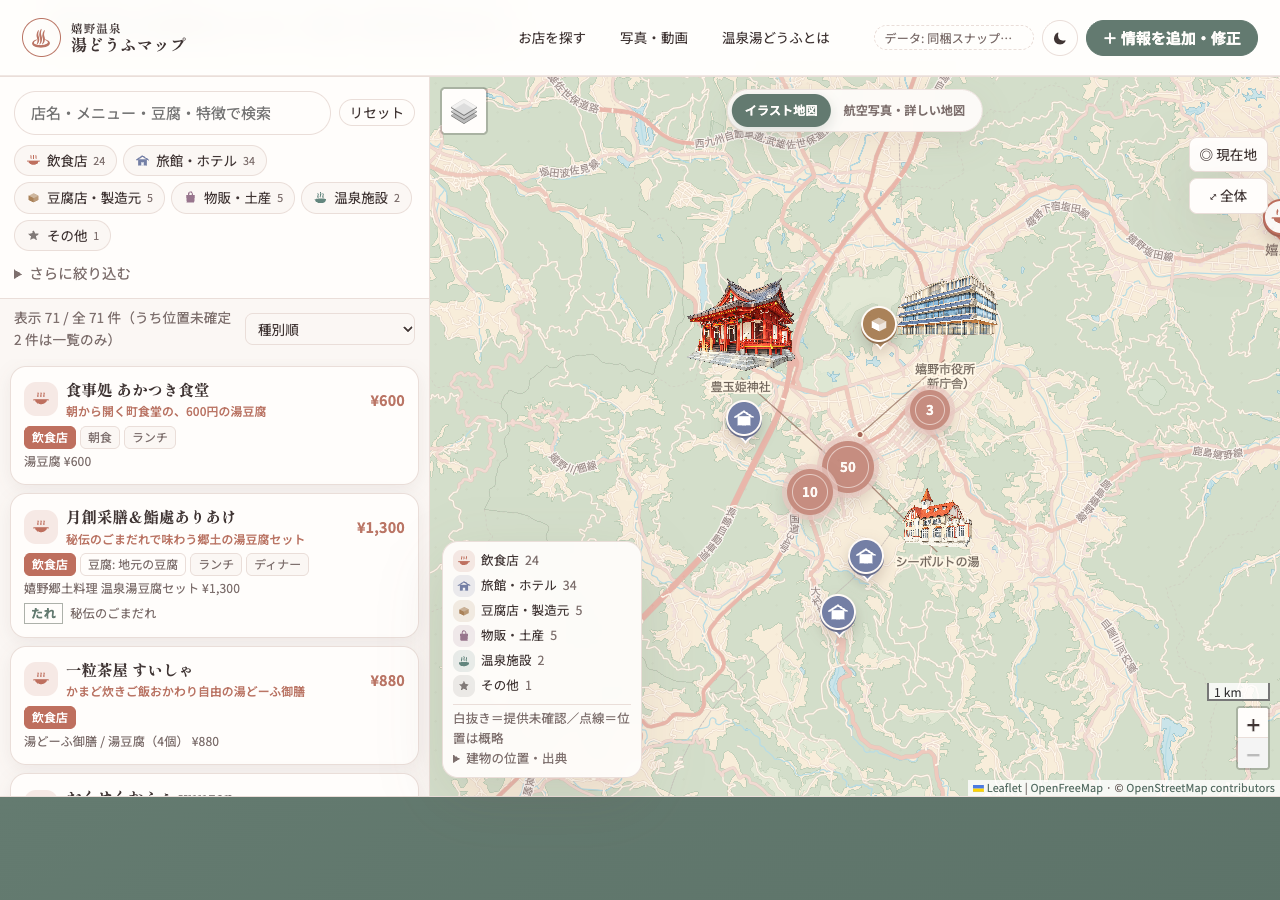
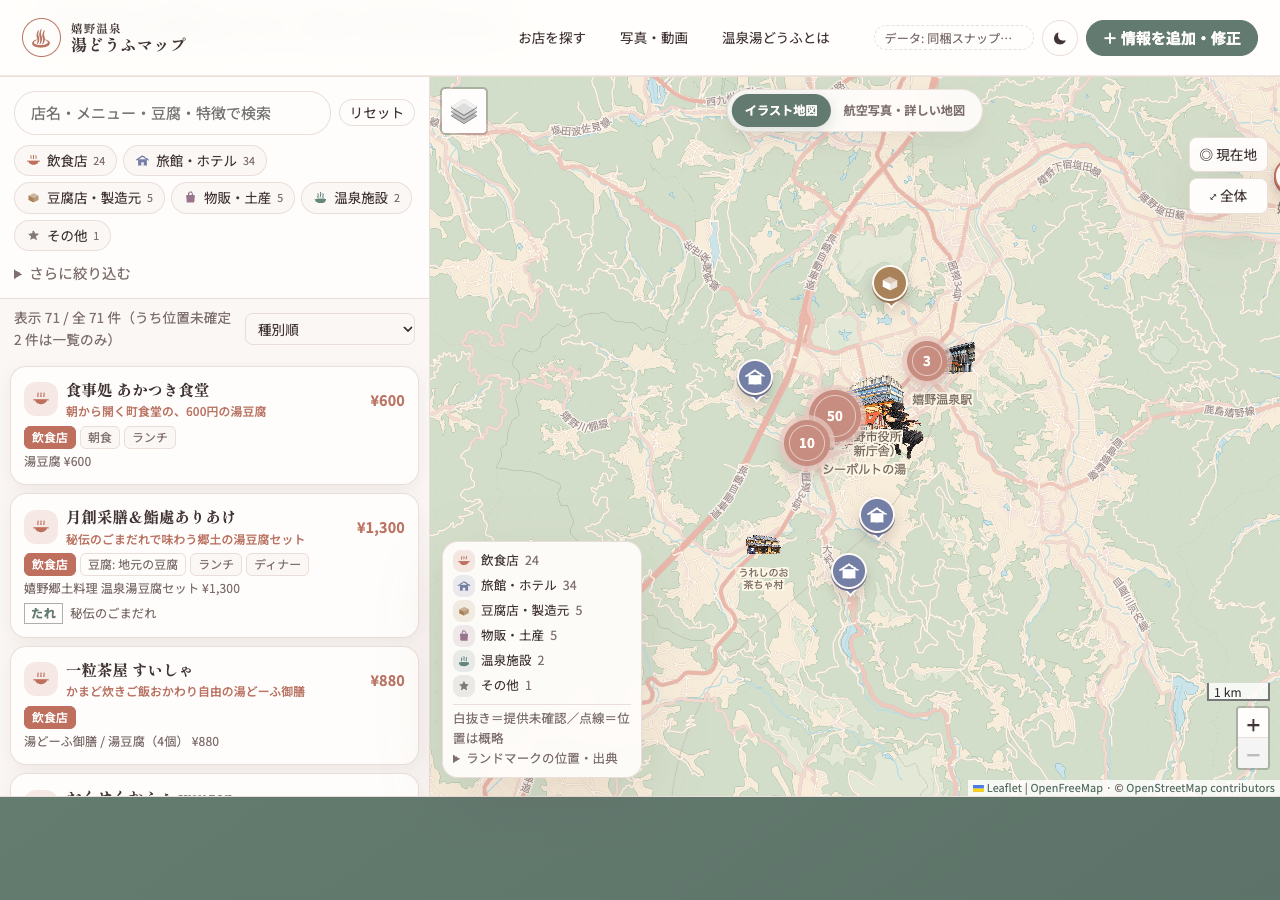
地図の実在ランドマークを追加し白なまずを描く

Changed region(s): [[0.3125, 0.0622, 1.0, 0.9022], [0.9688, 0.6844, 1.0, 0.8089], [0.625, 0.0622, 0.75, 0.0933]]

diff --git a/js/ui/map-art.js b/js/ui/map-art.js
@@ -1,57 +1,16 @@
-/* 実在建築の外観を参考にした目印。位置は点、離した絵は引き出し線で結ぶ。 */
+/* 実在建築の外観を参考にした目印。すべてのズームで実座標に固定する。 */
 (function () {
   'use strict';
   const sessions = new WeakMap();
   const collection = features => ({ type: 'FeatureCollection', features });
   const point = (coordinates, properties) => ({ type: 'Feature', geometry: { type: 'Point', coordinates }, properties });
-  function afterMarkers(gl) {
-    const s = sessions.get(gl);
-    if (!s || s.removed) return;
-    clearTimeout(s.timer);
-    s.timer = setTimeout(() => refresh(gl), 400);
-  }
 
   function refresh(gl) {
     const s = sessions.get(gl);
     if (!s || s.removed || !gl.getSource('building-art')) return;
     const features = s.fixed.concat(s.places.filter(p => p.name.includes('シーボルト') && Number.isFinite(p.lat) && Number.isFinite(p.lng)).map(p =>
-      point([p.lng, p.lat], { name: 'シーボルトの湯', art: 'siebold', dx: 85, dy: 85 })));
-    // 広域では絵同士を離す。詳細表示では実際の場所へ近づける。
-    const spread = Math.max(0.2, Math.min(1, (16 - gl.getZoom()) / 3));
-    const lines = [];
-    const canvas = gl.getCanvas().getBoundingClientRect();
-    const mapRect = document.getElementById('map').getBoundingClientRect();
-    const viewport = { left: mapRect.left - canvas.left, right: mapRect.right - canvas.left, top: mapRect.top - canvas.top + 55, bottom: mapRect.bottom - canvas.top - 28 };
-    const obstacles = [...document.querySelectorAll('#map .leaflet-marker-icon, .map-legend, .map-tools')].map(el => {
-      const r = el.getBoundingClientRect();
-      return { left: r.left - canvas.left - 5, right: r.right - canvas.left + 5, top: r.top - canvas.top - 5, bottom: r.bottom - canvas.top + 5 };
-    });
-    const overlap = (a, b) => Math.max(0, Math.min(a.right, b.right) - Math.max(a.left, b.left)) * Math.max(0, Math.min(a.bottom, b.bottom) - Math.max(a.top, b.top));
-    const pictures = features.map(f => {
-      const xy = gl.project(f.geometry.coordinates);
-      const p = f.properties;
-      let offset = [p.dx * spread, p.dy * spread];
-      // 店舗ピンを避ける。建物を座標の上へ重ねず、実際の位置は引き出し線で示す。
-      if (gl.getZoom() >= 14 && xy.x >= viewport.left && xy.x <= viewport.right && xy.y >= viewport.top && xy.y <= viewport.bottom) {
-        const desired = offset;
-        const side = p.dx < 0 ? -1 : 1;
-        const candidates = [desired, [side * 65, -35], [side * 100, -35], [side * 65, 60], [side * 100, 80], [side * 40, 100]];
-        const box = ([dx, dy]) => ({ left: xy.x + dx - 48, right: xy.x + dx + 48, top: xy.y + dy - 76, bottom: xy.y + dy + 20 });
-        const score = d => {
-          const b = box(d);
-          return obstacles.reduce((sum, o) => sum + overlap(b, o) * 10, 0) + (9216 - overlap(b, viewport)) * 30 + ((d[0] - desired[0]) ** 2 + (d[1] - desired[1]) ** 2) * 0.5;
-        };
-        offset = candidates.reduce((best, c) => score(c) < score(best) ? c : best, desired);
-        obstacles.push(box(offset));
-      }
-      const end = gl.unproject([xy.x + offset[0], xy.y + offset[1]]);
-      const coordinates = [end.lng, end.lat];
-      lines.push({ type: 'Feature', geometry: { type: 'LineString', coordinates: [f.geometry.coordinates, coordinates] }, properties: {} });
-      return point(coordinates, p);
-    });
-    gl.getSource('building-points').setData(collection(features));
-    gl.getSource('building-leaders').setData(collection(lines));
-    gl.getSource('building-art').setData(collection(pictures));
+      point([p.lng, p.lat], { name: 'シーボルトの湯', art: 'siebold' })));
+    gl.getSource('building-art').setData(collection(features));
   }
 
   function install(gl) {
@@ -71,31 +30,31 @@
       }
       if (gl.getLayer('landmark-labels')) {
         if (!s.filter) s.filter = gl.getFilter('landmark-labels');
-        gl.setFilter('landmark-labels', ['all', s.filter, ['!=', ['get', 'name'], '豊玉姫神社']]);
+        gl.setFilter('landmark-labels', ['all', s.filter, ['!', ['in', ['get', 'name'], ['literal', [
+          '豊玉姫神社', '元祖忍者村 肥前夢街道', '嬉野温泉駅', '湯っつら広場', 'うれしのお茶ちゃ村',
+        ]]]]]);
       }
       if (!gl.getSource('building-art')) {
-        ['building-art', 'building-points', 'building-leaders'].forEach(id => gl.addSource(id, { type: 'geojson', data: collection([]) }));
-        gl.addLayer({ id: 'building-leaders', type: 'line', source: 'building-leaders', paint: { 'line-color': '#9c7968', 'line-width': 1.2, 'line-opacity': 0.85 } });
-        gl.addLayer({ id: 'building-points', type: 'circle', source: 'building-points', paint: { 'circle-radius': 3, 'circle-color': '#a66657', 'circle-stroke-width': 1.5, 'circle-stroke-color': '#fff7e7' } });
+        gl.addSource('building-art', { type: 'geojson', data: collection([]) });
         gl.addLayer({ id: 'building-art', type: 'symbol', source: 'building-art', layout: {
-          'icon-image': ['concat', 'building-', ['get', 'art']], 'icon-size': ['interpolate', ['linear'], ['zoom'], 13, 0.85, 14, 0.55], 'icon-optional': true,
-          'icon-anchor': 'bottom', 'icon-allow-overlap': true,
-          'text-field': ['get', 'name'], 'text-font': ['Noto Sans Regular'], 'text-size': 12,
-          'text-anchor': 'top', 'text-offset': [0, 0.15], 'text-max-width': 8,
-          'text-allow-overlap': true, 'text-ignore-placement': true,
+          'icon-image': ['concat', 'building-', ['get', 'art']], 'icon-size': ['interpolate', ['linear'], ['zoom'], 12, 0.28, 15, 0.52, 18, 0.68], 'icon-optional': true,
+          'icon-anchor': 'center', 'icon-allow-overlap': true,
+          'text-field': ['get', 'name'], 'text-font': ['Noto Sans Regular'], 'text-size': ['interpolate', ['linear'], ['zoom'], 12, 10, 15, 12, 18, 13],
+          'text-anchor': 'top', 'text-offset': ['interpolate', ['linear'], ['zoom'], 12, ['literal', [0, 2.2]], 15, ['literal', [0, 3]], 18, ['literal', [0, 3.8]]], 'text-max-width': 8,
+          // 広域では地名を間引き、街歩きの縮尺では目印名を必ず読めるようにする。
+          'text-allow-overlap': ['step', ['zoom'], false, 15, true],
+          'text-ignore-placement': ['step', ['zoom'], false, 15, true], 'text-optional': true,
         }, paint: { 'text-color': '#584c43', 'text-halo-color': '#fff7e7', 'text-halo-width': 2.5 } });
       }
       refresh(gl);
     };
-    gl.on('load', () => { s.loaded = true; setup(); afterMarkers(gl); });
-    gl.on('zoom', () => refresh(gl));
-    gl.on('moveend', () => afterMarkers(gl));
-    gl.on('remove', () => { s.removed = true; clearTimeout(s.timer); });
-    fetch('assets/map-landmarks.json?v=2026-10-23').then(r => {
+    gl.on('load', () => { s.loaded = true; setup(); });
+    gl.on('remove', () => { s.removed = true; });
+    fetch('assets/map-landmarks.json?v=2026-10-23-3').then(r => {
       if (!r.ok) throw new Error('landmarks');
       return r.json();
     }).then(data => { s.fixed = data.features; refresh(gl); }).catch(() => { /* 店舗由来の目印は引き続き表示 */ });
-    Promise.all(['siebold', 'toyotama', 'cityhall'].map(key => new Promise(resolve => {
+    Promise.all(['siebold', 'cityhall', 'namazu', 'ochacha', 'ninja', 'yuttsura', 'station'].map(key => new Promise(resolve => {
       const img = new Image();
       img.onload = () => resolve(['building-' + key, img]);
       img.onerror = () => resolve(null);
@@ -114,7 +73,6 @@
     if (!s) return;
     s.places = places;
     refresh(gl);
-    afterMarkers(gl);
   }
   window.TofuMapArt = { install, update };
 })();

diff --git a/js/app.js b/js/app.js
@@ -17,7 +17,7 @@
   const MAP_HOME_ZOOM = 16;
   // 添付の広域表示（温泉街と周辺、縮尺約1km）より引かない。
   const MAP_MIN_ZOOM = 13;
-  const MAP_OVERVIEW_CENTER = [33.101, 129.986];
+  const MAP_OVERVIEW_CENTER = [33.095, 129.984];
 
   const state = {
     all: [], visible: [], byId: {}, meta: {}, source: 'json', loadError: '',
@@ -574,6 +574,8 @@
           className: 'tofu-cluster',
           html: '<span aria-hidden="true">' + count + '</span><span class="sr-only">近くに' + count + '件</span>',
           iconSize: [size, size],
+          // 件数丸を少し左上へ。重なる建物は実座標から動かさず見えるようにする。
+          iconAnchor: count >= 30 ? [size / 2 + 24, size / 2 + 10] : [size / 2 + 14, size / 2 + 8],
         });
       },
       spiderLegPolylineOptions: { weight: 2, color: '#b98374', opacity: 0.65 },
@@ -919,7 +921,7 @@
     el.innerHTML = CAT_ORDER.filter((c) => state.all.some((p) => p.category === c)).map((c) => {
       const off = state.filters.cats.size && !state.filters.cats.has(c);
       return '<div class="legend-item' + (off ? ' off' : '') + '" data-cat="' + c + '" style="--c:' + catVar(c) + '" role="button" tabindex="0"><span class="legend-icon">' + I.icon(c, 'legend-illust') + '</span>' + esc(catLabel(c)) + ' <span class="muted">' + (counts[c] || 0) + '</span></div>';
-    }).join('') + '<div class="legend-note">白抜き＝提供未確認／点線＝位置は概略<details><summary>建物の位置・出典</summary>絵は目印・線の先が実際の位置<br><a href="https://www.city.ureshino.lg.jp/shisei/soshiki/_24965.html" target="_blank" rel="noopener">市役所</a>・<a href="https://www.city.ureshino.lg.jp/kanko/siebold.html" target="_blank" rel="noopener">浴場</a>・<a href="https://toyotamahime-jinja.or.jp/sanpai.php" target="_blank" rel="noopener">神社</a></details></div>';
+    }).join('') + '<div class="legend-note">白抜き＝提供未確認／点線＝位置は概略<details><summary>ランドマークの位置・出典</summary>絵の中心が実際の座標<br><a href="https://www.city.ureshino.lg.jp/shisei/soshiki/_24965.html" target="_blank" rel="noopener">市役所</a>・<a href="https://www.city.ureshino.lg.jp/kanko/siebold.html" target="_blank" rel="noopener">浴場</a>・<a href="https://toyotamahime-jinja.or.jp/sanpai.php" target="_blank" rel="noopener">神社</a>・<a href="https://spa-u.net/facility/2016/01/org-entry-209.php" target="_blank" rel="noopener">お茶</a>・<a href="https://www.hizenyumekaidou.info/access/" target="_blank" rel="noopener">忍者村</a>・<a href="https://publicspace-db.pref.saga.lg.jp/publicspace/k0002/" target="_blank" rel="noopener">広場</a>・<a href="https://www.jrkyushu.co.jp/railway/station/1227475_1601.html" target="_blank" rel="noopener">駅</a></details></div>';
   }
 
   // ------------------------------------------------------------------ 一覧

diff --git a/docs/mockups/landmark-art.md b/docs/mockups/landmark-art.md
@@ -1,28 +1,48 @@
-# 実在建築のランドマーク（2026-10-23）
+# 実在ランドマークの地図イラスト（2026-10-23）
 
 ## 外観と位置の根拠
 
 - シーボルトの湯: [嬉野市の施設案内](https://www.city.ureshino.lg.jp/kanko/siebold.html)。白い外壁、オレンジ色の屋根、細長い尖塔。旧イラストの架空の時計を撤去。位置は `TofuData` の店舗座標。
-- 豊玉姫神社: [神社公式の拝殿写真](https://toyotamahime-jinja.or.jp/sanpai.php)。朱色の柱、白壁、反った灰色の屋根。位置は OpenStreetMap / OpenFreeMap。
-- 嬉野市役所（新庁舎）: [公式庁舎案内と地図](https://www.city.ureshino.lg.jp/shisei/soshiki/_24965.html)、[公式外観パース掲載ページ](https://www.city.ureshino.lg.jp/shisei/_25349/_26636.html)。4階建て、水平の庇、ガラス窓、最上部の縦ルーバー。公式地図の緯度33.101276・経度129.986866を採用。旧塩田庁舎の位置ではない。
+- 豊玉姫神社・白なまず: [神社公式](https://toyotamahime-jinja.or.jp/sanpai.php) と依頼時の現地写真。神社建築ではなく、境内の白なまず像を描画。位置は OpenStreetMap / OpenFreeMap。
+- 嬉野市役所（新庁舎）: [公式庁舎案内と地図](https://www.city.ureshino.lg.jp/shisei/soshiki/_24965.html)、[公式外観パース掲載ページ](https://www.city.ureshino.lg.jp/shisei/_25349/_26636.html)。4階建て、水平の庇、ガラス窓、最上部の縦ルーバー。公式地図の緯度33.101276・経度129.986866を採用。
+- うれしのお茶ちゃ村: [嬉野温泉観光協会](https://spa-u.net/facility/2016/01/org-entry-209.php) と依頼時の外観写真。長い瓦屋根、木部、藍色の暖簾を反映。緯度33.079488・経度129.968292。
+- 元祖忍者村 肥前夢街道: [施設公式アクセス](https://www.hizenyumekaidou.info/access/) と依頼時の写真。建物ではなく、施設を判別しやすい忍者の記号。緯度33.095641・経度129.9912809。
+- 湯っつら広場: [佐賀県公共空間データベース](https://publicspace-db.pref.saga.lg.jp/publicspace/k0002/) と依頼時の現地写真。木柱と低い屋根の足湯東屋を反映。緯度33.09783212095889・経度129.9864069699743。
+- 嬉野温泉駅: [JR九州](https://www.jrkyushu.co.jp/railway/station/1227475_1601.html) と依頼時の外観写真。長い駅舎、縦ルーバー、反り上がる入口庇を反映。緯度33.1066113・経度129.9989727。
 
-参考写真はリポジトリに転載していない。内蔵 imagegen で外観を参考にした透過PNGイラストを作成し、`assets/landmarks/{siebold,toyotama,cityhall}.png` に保存。実写や測量図ではない。イラストの誇張や細部の省略があるため、実際の位置を点と引き出し線で別に示す。
+参考写真はリポジトリに転載していない。内蔵 imagegen で参考写真から透過PNGの地図用イラストを作成し、`assets/landmarks/` に保存した。実写や測量図ではない。イラストの中心を実際の座標に固定し、引き出し線や位置をずらす処理は使用しない。
 
-広域では3施設を常時表示。詳細表示では絵を小さくし、店舗ピンとの重なりを減らす。建築を確認していないその他の施設は名称表示とし、架空の建物を実物のように描かない。公園は樹木の汎用記号。
+広域では小さく、拡大するにつれて絵を少し大きく表示する。店舗ピンや件数の丸が上に重なることを許容し、ズーム15以上では名称を省略しない。建築を確認していないその他の施設は名称表示とし、架空の建物を実物のように描かない。公園は樹木の汎用記号。
 
-## 生成プロンプト（内蔵ツール、参考写真を各1枚添付）
+## 生成プロンプト（内蔵 imagegen、参考写真を添付）
 
 ### siebold.png
 
 Create ONE isolated architectural illustration asset for an illustrated walking map of Ureshino, Japan. Reference image is the real Siebold no Yu building, use as exact architecture reference, not an edit target. Reproduce recognizable asymmetrical white two-storey Gothic/revival bathhouse: long orange red pitched roof, slender white square tower topped by very steep orange pyramid spire on left of center, timber red trim on gable ends, many gridded tall rectangular white windows, lower white flat-roof wing with balustrade on right. No invented clock: the real tower has windows, NOT a clock. Preserve proportions and distinctive roofline faithfully. Elegant hand-painted travel-map illustration, fine warm pencil outlines and subtle watercolor shading; muted cream, terracotta and sage accents. Three-quarter facade view from photograph, whole building from base to spire, tightly framed but no cropping; building occupies 90% of square canvas width. No river, sky, other buildings, text, labels, circular badge, people or background. Genuine transparent alpha background. Crisp silhouette and architectural clarity readable at 100px on a map; detailed enough at 200px. Save one square PNG.
 
-### toyotama.png
-
-Create ONE isolated architectural illustration asset for an illustrated walking map in Ureshino Japan. Use the reference photograph as accurate architecture reference of Toyotamahime Shrine worship hall. Reproduce actual broad dark gray sweeping irimoya roof with concave curved eaves, front gabled projection, vermilion red wooden columns and railings, cream-white wall panels, golden little beam-end details, three front door bays with shimenawa ropes and white paper streamers, raised wooden veranda and low gray stone steps/base. This is the distinctive vermilion worship hall from the image, NOT a generic torii, NOT a pagoda. Whole building in a slightly elevated three-quarter view matching photograph, tightly framed with 8% transparent margin. Elegant fine pencil outline and muted watercolor architectural travel-map illustration in warm red, slate gray, sage and cream, consistent refined Japanese walking map style. No trees, sky, people, stone lion obstructing the building, signs, text, label, circle or background. Genuine transparent alpha background. Recognizable silhouette readable at 100px but rich faithful architecture at 200px. Square PNG.
-
 ### cityhall.png
 
 Use case: stylized-concept. Create ONE isolated architectural map illustration of the new Ureshino City Hall precisely based on the attached official exterior rendering (architecture reference, not edit target). Preserve the four-storey broad rectangular building, three layered dark slate sloping horizontal eaves, continuous blue-gray glass window bands, cream concrete pillars, upper vertical white fins around the roofline, and slender ground-floor portico. Whole building in same three-quarter view with frontage to left and shorter right side visible. Elegant fine warm pencil outline with subtle watercolor shading, muted cream, slate blue and sage, recognizable structure at 120px. No sky, roads, cars, people, trees, text, signage, background or badge. Genuine transparent alpha. Square PNG, building tightly framed with modest transparent margin. Do not replace building with generic civic hall or traditional Japanese building.
+
+### namazu.png
+
+Use case: stylized-concept. Asset type: transparent illustrated landmark for a Japanese walking map. Input reference shows the real white catfish water statue at Toyotamahime Shrine. Create the landmark as the WHITE CATFISH, not the shrine building. Faithfully depict a friendly horizontal white ceramic catfish with broad head, open curved mouth, round eye, whiskers and long pale body, resting on a low dark charcoal stone water basin. Include a small light wooden ladle above pouring one simple stream of water onto its back. Slight three-quarter view, compact silhouette. Refined fine-pencil and subtle watercolor travel-map illustration matching the other map assets, pearl white, cool gray, charcoal and pale cedar. No hand/person, trees, shrine building, cup, text, label, circle, badge or background. Genuine transparent alpha. Square PNG. Readable at 70–100px.
+
+### ochacha.png
+
+Use case: stylized-concept. Asset type: transparent illustrated landmark for a Japanese walking map. Input reference is the real Ureshino Ochacha Mura tea shop exterior. Faithfully depict the long low two-storey Japanese tea shop: broad gray tiled roofs, warm cream plaster upper wall, dark brown timber storefront, narrow vertical upper windows, deep front eaves and indigo tea curtain at the left. Slight three-quarter front view, whole building tightly framed. Refined fine-pencil and subtle watercolor style matching existing travel-map architectural illustrations. Muted cream, charcoal, cedar brown and tea green. No mountain, sky, people, cars, text, logos, labels, badge, ground scenery or background. Genuine transparent alpha. Square PNG. Recognizable at 80–120px.
+
+### ninja.png
+
+Use case: stylized-concept. Asset type: transparent illustrated landmark for a Japanese walking map. Create a single compact dynamic black-clad ninja landmark symbol inspired by the characteristic live ninja attraction at Hizen Yume Kaido: one masked ninja in a mid-air leap, knees bent, holding a short sheathed-or-safe stylized sword horizontally. Elegant hand-painted travel-map illustration with fine warm pencil lines and restrained watercolor, black and charcoal clothing with a tiny deep red accent. Clear silhouette readable at 70px. No second person, no blood, no attack impact, no stage room, no text, logo, circle, badge or background. Genuine transparent alpha. Square PNG.
+
+### yuttsura.png
+
+Use case: stylized-concept. Asset type: transparent illustrated landmark for a Japanese walking map. Input reference is the real Yuttsura Hiroba footbath pavilion in Ureshino. Faithfully depict the distinctive open pavilion: wide low dark gray hipped metal roof, pale translucent ceiling panels in a wooden grid, warm square timber columns, horizontal cedar privacy fence behind, several low dark stone footbath basins including the small rounded pink-and-gray basin at front. Slightly elevated three-quarter view, whole pavilion tightly framed. Fine pencil and subtle watercolor travel-map architecture style, warm cedar, cream and stone gray. No adjacent tall building, sky, people, planters, text, labels, badge or background. Genuine transparent alpha. Square PNG. Recognizable at 80–120px.
+
+### station.png
+
+Use case: stylized-concept. Asset type: transparent illustrated landmark for a Japanese walking map. Input reference is the real Ureshino-Onsen Station exterior. Faithfully depict the long modern station facade: very wide low dark gray roof canopy, two-storey charcoal and gray facade with continuous upper glass band, dark vertical timber-like slats, dramatic gently upturned copper-brown entrance canopy supported by dark round columns. Three-quarter front view, compress the long width slightly while keeping its distinctive silhouette. Fine pencil and subtle watercolor travel-map architecture style, charcoal, muted brown, slate and glass blue. No cars, road, people, text, station lettering, signs, sky, labels, badge or background. Genuine transparent alpha. Square PNG. Recognizable at 80–120px.
 
 ## 追加検証
 
@@ -33,4 +53,4 @@ Use case: stylized-concept. Create ONE isolated architectural map illustration o
 
 ## バックエンドへの依頼
 
-将来、非店舗ランドマークの名称・座標・外観参考URLを `TofuData` から提供できると、`assets/map-landmarks.json` の2施設も一元管理できます。今回は既存APIを変更せず、出典付きの地図用UI素材として分離しています。
+将来、非店舗ランドマークの名称・座標・外観参考URLを `TofuData` から提供できると、`assets/map-landmarks.json` の6施設も一元管理できます。今回は既存APIを変更せず、出典付きの地図用UI素材として分離しています。
